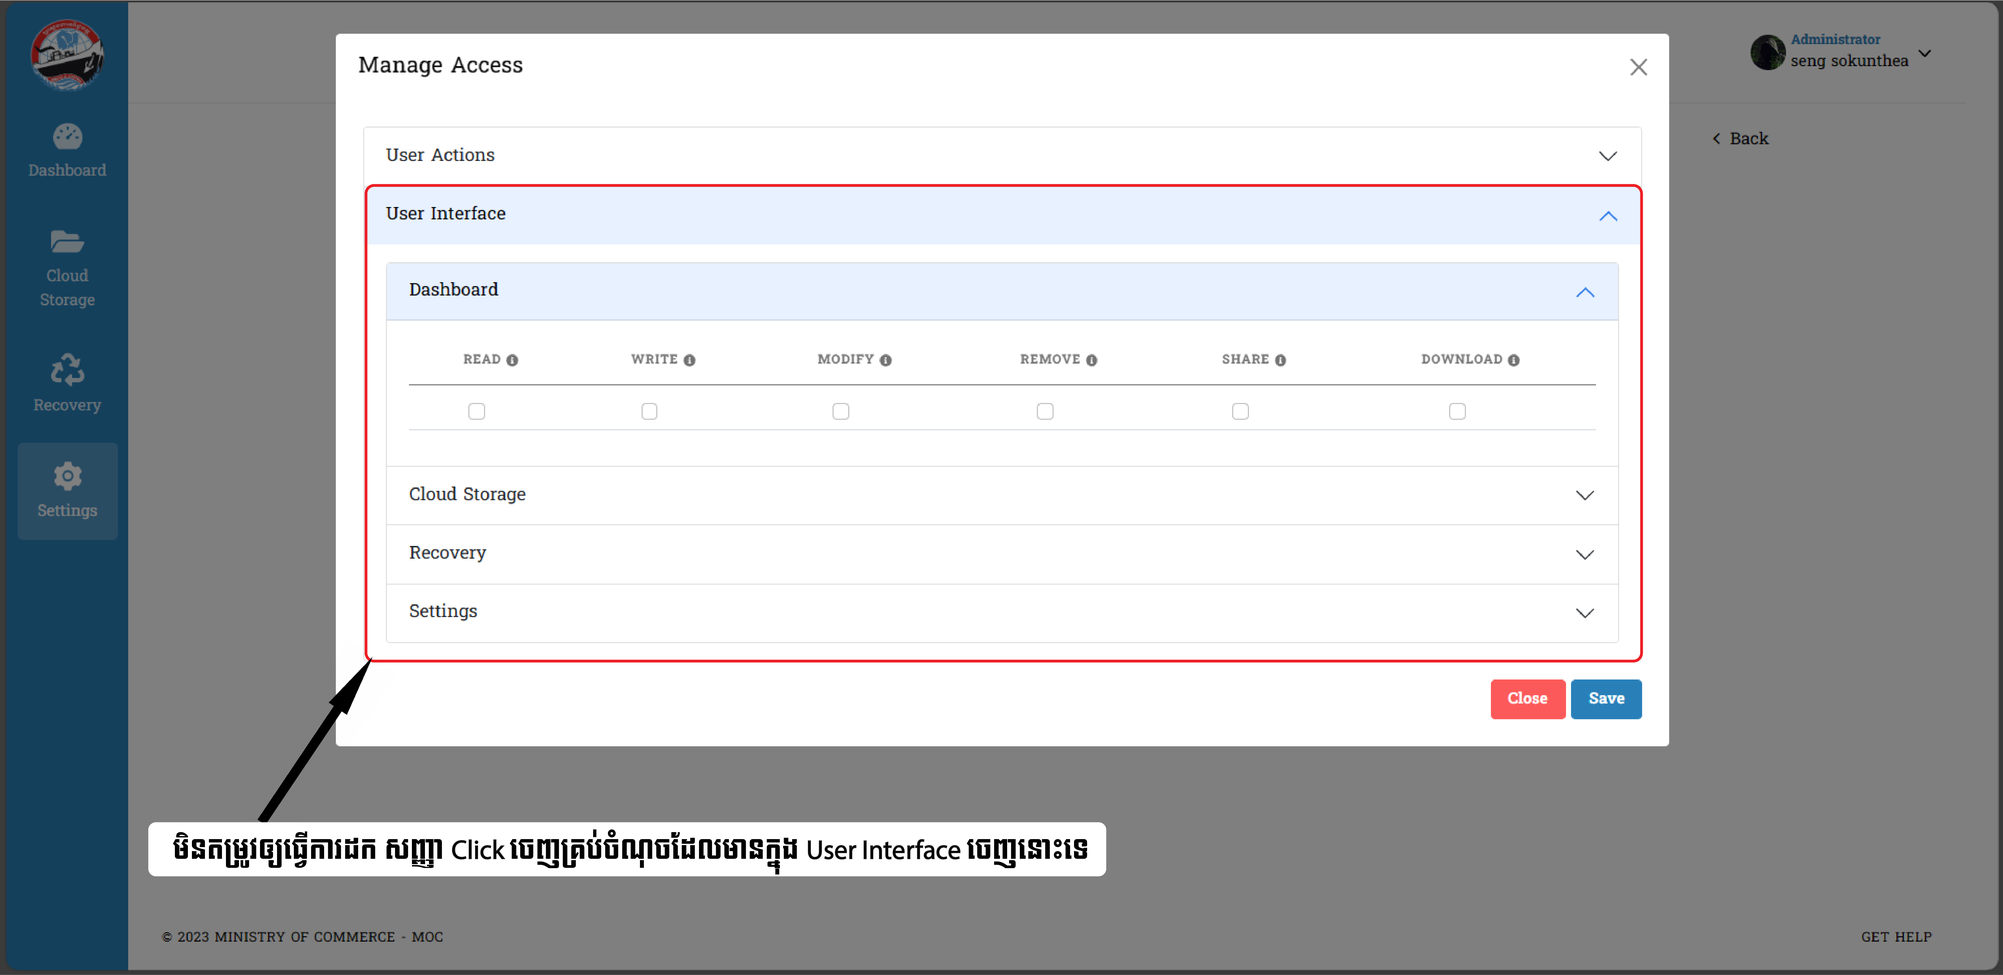
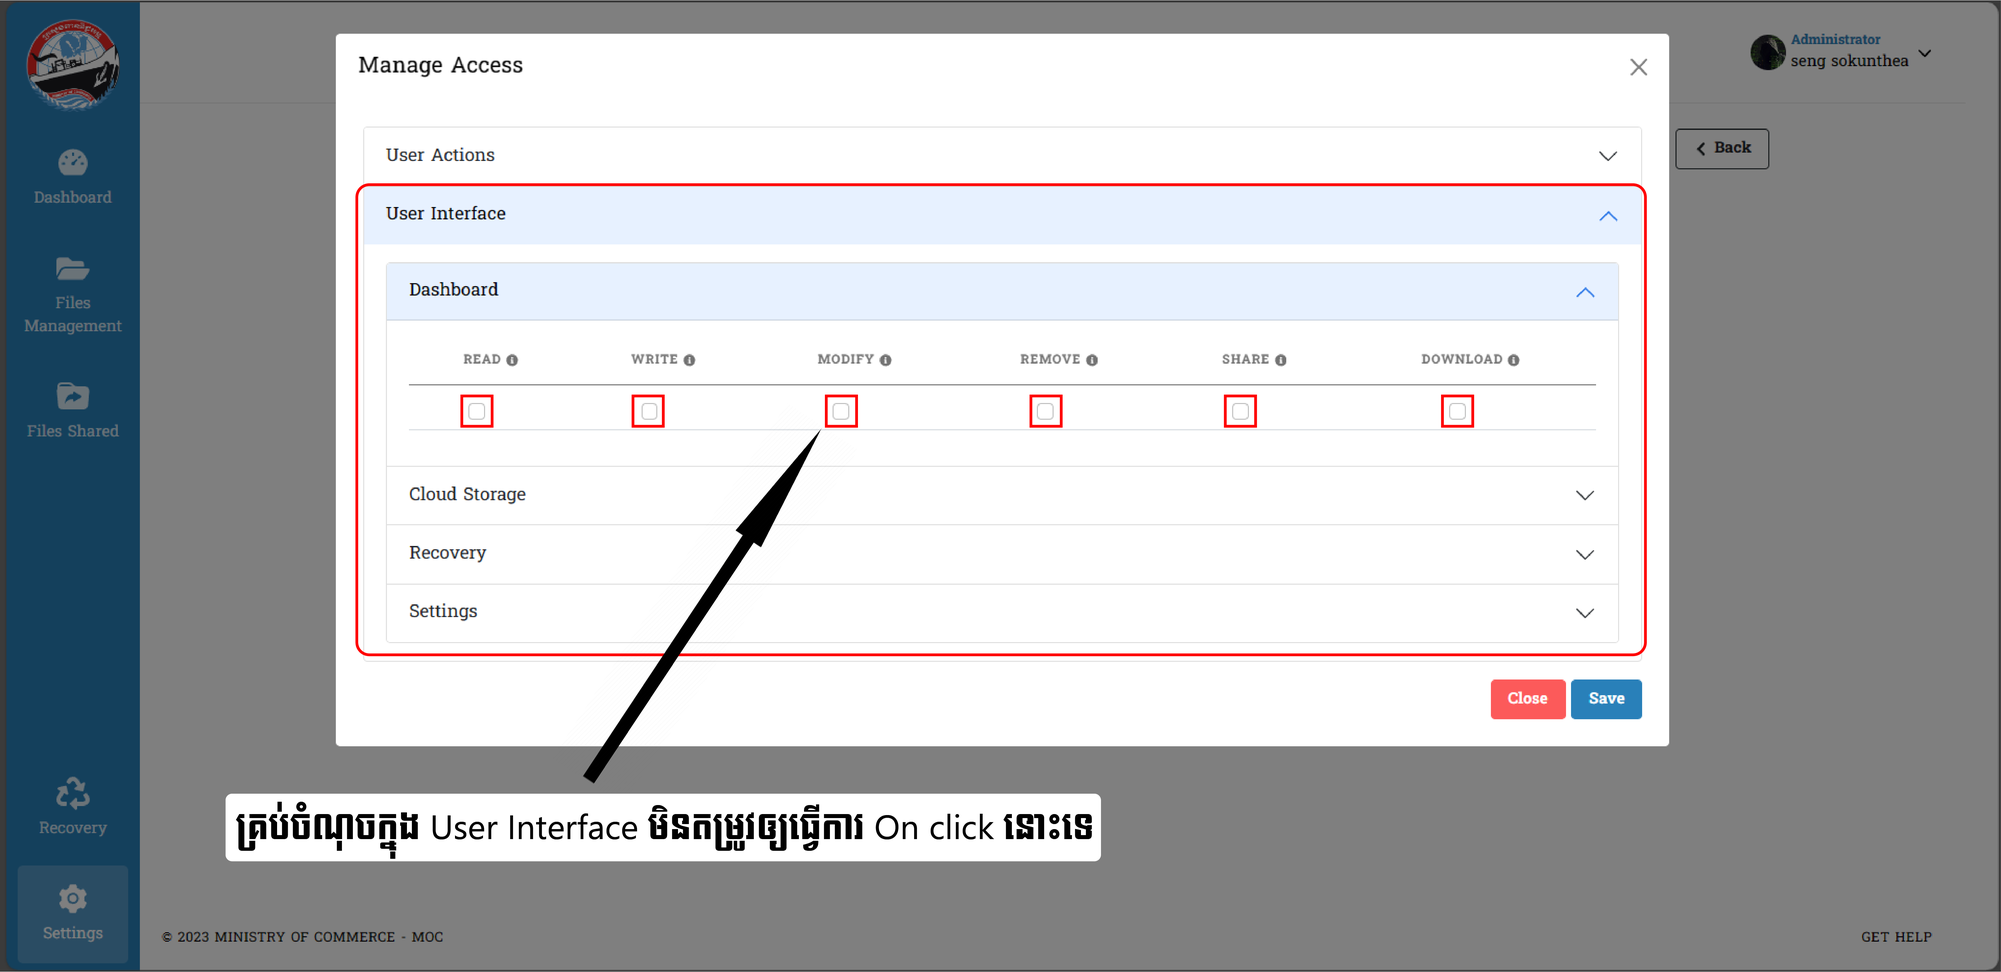
add information in all category today 24 9

diff --git a/src/home/ManageAccess.md b/src/home/ManageAccess.md
@@ -2,35 +2,38 @@
 
 នេះជាគេហទំព័រសម្រាប់ណែនាំដល់ Admin ដែលមានតួនាទីសំខាន់សម្រាប់គ្រប់គ្រងមុខងារដែលស្ថិតក្នុងគេហទំព័រ `Roles`
 ::: danger ចំណាំ
-ដើម្បីដំណើរការដល់ចំណុចនីមួយៗ **Admin** គប្បីធ្វើការ *Assign Role* ដល់ User ក្នុងគេហទំព័រ `Users` លើចំណុច _Action_ ជាមុនសិន
+ដើម្បីដំណើរការដល់ចំណុចនីមួយៗ **Admin** គប្បីធ្វើការ _Assign Role_ ដល់ User ក្នុងគេហទំព័រ `Users` លើចំណុច _Action_ ជាមុនសិន
 
 ![Pic ](./pictures/Roles/ManageAccess/actionInUsers.png)
+
 <hr>
 
 បន្ទាប់ពីចូលក្នុង Action រួច :
 ![Pic ](./pictures/Roles/ManageAccess/assignRole.png)
+
+Admin មានសិទ្ធិក្នុងការកំណត់ឲ្យ User ម្នាក់ណាមានសិទ្ធិជាអ្វីបាន
 :::
+
 ## ១. ការយល់ដឹងអំពីព័ត៌មានក្នុង Manage Access នៃ Roles
 
 ::: tip វិធីសាស្ត្រយល់ច្បាស់ជាមួយនឹងការប្រើប្រាស់ Manage Access
+Manage Access មានពីរចំណុចយ៉ាងសំខាន់សម្រាប់ផ្តល់តួរនាទីផ្សេងៗទៅកាន់ Users នីមួយៗ:
+
 ![Pic ](./pictures/Roles/ManageAccess.png)
 
 ការចូលទៅកាន់ Manage Access ព័ត៌មានទាំងអស់នឹងមានបង្ហាញ :
-ព័ត៌មានចំនួន ២ គឺ
 
 - User Actions
 - User Interface
 <hr>
 
-> _User Actions_ : រាល់ព័ត៌មានទាំងអស់អ្នកប្រើប្រាស់អាចមើលឃើញមុខងាផ្សេងៗ
-> បន្ថែមពីនោះចំណុច `READ *` ជាចំណុចដែលអ្នកប្រើប្រាស់មិនអាចកែប្រែបាន
-> ![Pic ](./pictures/Roles/Interface/ActionsInRoles.png)
-> អ្នកប្រើប្រាស់អាចធ្វើការដក ឬ ដាក់នូវមុខងារទាំងអស់បាន
+> _User Actions_ : Admin តែម្នាក់គត់មានសិទ្ធិកំណត់ព័ត៌មានដល់អ្នកប្រើប្រាស់ មុននឹងអាចធ្វើការលើ Broswer បាន
+> បន្ថែមពីនោះចំណុច `READ *` ជាចំណុចដែល Admin មិនអាចកែប្រែបាន <br/><br/> > ![Pic ](./pictures/Roles/Interface/ActionsInRoles.png)
+> Admin អាចធ្វើការដក ឬ ដាក់នូវមុខងារទាំងអស់បាន
 
 <hr>
 
-> _User Interface_ : អ្នកប្រើប្រាស់អាចធ្វើការកំណត់ព័ត៌មានលើចំណុចនីមួយៗ
-> ![Pic ](./pictures/Roles/Interface/InterfaceInRole.png)
+> _User Interface_ : សម្រាប់បង្ហាញព័ត៌មានសំខាន់ដល់ Users ប្រើប្រាស់ ។ សម្រាប់ Admin គឺមានតួនាទីមួយនេះ <br/><br/> > ![Pic ](./pictures/Roles/Interface/InterfaceInRole.png)
 
 - ចុច _Save_ ដើម្បីធ្វើការបញ្ជាក់ថាការចង់រក្សាទុក
 - ចុច _Cancel_ សម្រាប់ទៅរកទម្រង់ដើម
@@ -53,71 +56,125 @@
 :::
 
 ## ៣. ការបើកអនុញ្ញាតសកម្មភាពទាំងអស់ក្នុង User Interface
+
 ::: tip វិធីសាស្ត្រយល់ដឹងអំពីការបើកគ្រប់ចំណុចទាំងអស់ក្នុងគេហទំព័រ User Interface
+
 - ចូលទៅកាន់ _User Interface_ ក្នុងចំណុច `Dashbord`
 - ផ្តល់ព័ត៌មានគ្រប់ចំណុចដែលមិនទាន់បានបំពេញរួច
 
 ព័ត៌មានសម្រាប់ Admin ត្រូវធ្វើ :
 ![Pic ](./pictures/Roles/ManageAccess/UserInterface.png)
+
 <hr>
 
- ![Pic ](./pictures/Roles/ManageAccess/UserInterfaceWithAllClick.png)
+![Pic ](./pictures/Roles/ManageAccess/UserInterfaceWithAllClick.png)
 `Admin` បានផ្តល់តួនាទីឲ្យ **User** ចូលក្នុងប្រព័ន្ធបានត្រឹមតែចូលមើលតែប៉ុណ្ណោះ!
+
 <hr>
 
-ព័ត៌មានសម្រាប់ User ត្រូវដឹង :  <br>
+ព័ត៌មានសម្រាប់ User ត្រូវដឹង : <br>
 Coming soon ....
-::: 
-## ៤.ការអនុញ្ញាតទាំងអស់នៅក្នុង User Permissions  និង User Interface គ្រប់ចំណុច
+:::
+
+## ៤.ការអនុញ្ញាតទាំងអស់នៅក្នុង User Permissions និង User Interface គ្រប់ចំណុច
+
 ::: tip វិធីសាស្ត្រយល់ដឹងអំពីការបើកដំណើរការនូវសកម្មភាពផ្សេងៗក្នុងចំណុចទាំងពីរធំៗ
-- ចូលទៅកាន់ Manage Access ដដែលបន្ទាប់មកចូលទៅចុចអនុញ្ញាតទាំងពីរចំណុចធំៗរួមមាន `User Permissions` និង `User Interface` 
-- ក្នុង `User Interface` ចុចអនុញ្ញាតទាំង *Dashboard* , *Cloud Storage* , *Recovery* , *Settings* ផងដែរ ។
+
+- ចូលទៅកាន់ Manage Access ដដែលបន្ទាប់មកចូលទៅចុចអនុញ្ញាតទាំងពីរចំណុចធំៗរួមមាន `User Permissions` និង `User Interface`
+- ក្នុង `User Interface` ចុចអនុញ្ញាតទាំង _Dashboard_ , _Cloud Storage_ , _Recovery_ , _Settings_ ផងដែរ ។
 
 ព័ត៌មានសម្រាប់ Admin ត្រូវធ្វើ :
 ![Pic ](./pictures/Roles/ManageAccess/clickallinManageAccess.png)
->ការបើកចំណុចទាំងពីរខាងលើគឺអនុញ្ញាតឲ្យ User (អ្នកប្រើប្រាស់) មានសិទ្ធិក្នុងការកែប្រែ (Edit, Modify and Remove) គ្រប់ចំណុចលើ Website បាន
+
+> ការបើកចំណុចទាំងពីរខាងលើគឺអនុញ្ញាតឲ្យ User (អ្នកប្រើប្រាស់) មានសិទ្ធិក្នុងការកែប្រែ (Edit, Modify and Remove) គ្រប់ចំណុចលើ Website បាន
 
 ក្នុង **Dashboard** អ្នកប្រើប្រាស់អាច :
+
 - អាចចូលមើលនឹងកែប្រែគ្រប់ចំណុចដែលមាន
 - គ្រប់ព័ត៌មានរបស់ User (អ្នកប្រើប្រាស់) អាចដឹងបាន
 
 ![Pic ](./pictures/Roles/ManageAccess/dashboradNews.png)
 
 នៅក្នុង **Cloud Storage** អ្នកប្រើប្រាស់អាច :
-- បង្កើត Batch Upload 
-- បង្កើត File 
+
+- បង្កើត Batch Upload
+- បង្កើត File
 - បង្កើត Folder
 
 ![Pic ](./pictures/Roles/ManageAccess/AddFile.png)
+
 <hr>
 
-ក្នុង **Recovery** អ្នកប្រើប្រាស់អាច : 
+ក្នុង **Recovery** អ្នកប្រើប្រាស់អាច :
+
 - ធ្វើការ «Recovery» (ការយកមកប្រើប្រាស់ជាថ្មី) និង «Delete» ចំពោះ Folder ជាមួយនឹង ទិន្នន័យផ្សេងៗដែលអ្នកប្រើប្រាស់យល់ថាមានបញ្ហា ឬុ ចង់លុបចេញ
 
 ![Pic ](./pictures/Roles/ManageAccess/Recovery.png)
+
 <hr>
 
-ក្នុង **Settings** អ្នកប្រើប្រាស់អាចធ្វើការជាធម្មតា !! 
+ក្នុង **Settings** អ្នកប្រើប្រាស់អាចធ្វើការជាធម្មតា !!
 :::
+
 ## ៥. ការអនុញ្ញាតត្រឹមតែការចូលមើល តែមិនអាចធ្វើការកំណត់បាន
+
 ::: tip វិធីសាស្ត្រយល់ដឹងអំពីការកំណត់មិនឲ្យធ្វើអ្វីបានក្រៅពីការអាន
 ព័ត៌មានសម្រាប់ Admin ត្រូវធ្វើ :
 
->បើ Admin មានគំនិតចង់ឲ្យ User ធ្វើការងារត្រឹមតែ អាន មួយលក្ខខណ្ឌនោះ នេះជាកាតាបកិច្ចដែលត្រូវបំពេញតាម : 
+> បើ Admin មានគំនិតចង់ឲ្យ User ធ្វើការងារត្រឹមតែ អាន មួយលក្ខខណ្ឌនោះ នេះជាកាតាបកិច្ចដែលត្រូវបំពេញតាម :
 
 - ចំពោះ `User Permission` មិនតម្រូវឲ្យបិទនោះទេ ❌
-- តម្រូវឲ្យបិទសញ្ញា Click ✅ ក្នុង User Interface គ្រប់ចំណុច
+- តម្រូវឲ្យបិទសញ្ញា Click ✅ ក្នុង `User Interface` គ្រប់ចំណុច
 - អ្នកប្រើប្រាស់ ពុំអាចធ្វើការបានទេក្រោយ Admin បានកំណត់រួចរាល់
 
-![Pic ](./pictures/Roles/ManageAccess/clickAllUserPermission(2).png)
+![Pic ](<./pictures/Roles/ManageAccess/clickAllUserPermission(2).png>)
+
 <hr>
 
 ![Pic ](./pictures/Roles/ManageAccess/clickAllUserPermission.png)
 
 ព័ត៌មានសម្រាប់ User (អ្នកប្រើប្រាស់) ត្រូវដឹង :
-- អ្នកប្រើប្រាស់ពុំអាចធ្វើការមើលឃើញ ការបង្ហាញព័ត៌មាននៅផ្នែកខាងឆ្វេង (Sidebar) បានទេ
-- អ្នកប្រើប្រាស់មើលបានតែព័ត៌មាន *Settings* មួយតែប៉ុណ្ណោះ <br> ក្នុងនោះទទួលបានតែ *( Account* និង *change Password)* តែប៉ុណ្ណោះ ។ 
+
+- ពុំអាចមើលឃើញ ការបង្ហាញព័ត៌មាននៅផ្នែកខាងឆ្វេងមួយចំនួន (Sidebar)
+- មើលបានតែព័ត៌មាន _Settings_ មួយតែប៉ុណ្ណោះ <br> ក្នុងនោះទទួលបាន _( Account_ និង _change Password)_
 - អាចធ្វើការបានត្រឹមតែ `Change Password (ប្តូរពាក្យសម្ងាត់)` និង `Account(បង្កើតព័ត៌មានផ្ទាល់ខ្លួន)` តែប៉ុណ្ណោះ ។
 - ការផ្លាស់ប្តូរពាក្យសម្ងាត់រួចនឹងលោតទៅកាន់គេហទំព័រដើមវិញ
 
 ![Pic ](./pictures/Roles/ManageAccess/OnlyViewSettings.png)
+
+:::
+
+## ៦. ការផ្តល់ឲ្យមានការអានគ្រប់ព័ត៌មានតែមិនអាចផ្លាស់ប្តូរចំណុចណាបាន
+
+::: tip វិធីសាស្ត្រយល់ដឹងអំពីការបង្ហាញចេញក្រោយពេលមានការកែប្រែនិងធ្វើតាមការណែនាំតាមដំណាក់កាលនីមួយៗ
+ព័ត៌មានសម្រាប់ Admin ត្រូវធ្វើ :
+
+:::
+
+## ៧. ការបិទបញ្ចប់តួនាទីទៅជាទម្រង់លំនាំដើមវិញ
+
+::: tip វិធីសាស្ត្រយល់ដឹងអំពីដំណើរដើម្បីផ្តល់តួនាទីឲ្យក្លាយជាទម្រង់ដើមជាថ្មី ក្នុងបំណងធ្វើការផ្អាកដំណើរការនិងតួនាទីណាមួយរបស់ users
+
+ព័ត៌មានសម្រាប់ Admin ត្រូវធ្វើ : <br/>
+Admin បានមកដល់ក្នុង Manage Access :
+
+- ធ្វើការ click ✅ ក្នុងប្រអប់ទាំង ៤ នេះ
+- មិនតម្រូវឲ្យធ្វើការ សញ្ញា Click ក្នុង `User Interface` គ្រប់ចំណុច ❌
+- ចុច _Save_ ដើម្បីសម្រេចថាអ្នកបានយល់ព្រមក្នុងការកំណត់ធ្វើបែបនោះ
+
+![Pic ](./pictures/Roles/ManageAccess/click4onManageAccessInUserAction.png)
+
+<hr/>
+
+![Pic ](./pictures/Roles/ManageAccess/click4onManageAccessInUserAction2.png)
+
+ព័ត៌មានសម្រាប់ User (អ្នកប្រើប្រាស់) ត្រូវដឹង :
+
+- ខាងលើផ្នែកខាងស្តាំបានផ្លាស់ប្តូរឈ្មោះអ្នកប្រើប្រាស់ដែលបានកំណត់ទៅជា _Default_
+- ការប្រើប្រាស់បានក្លាយទៅជាទម្រង់នៃរូបភាពដើមវិញទាំងស្រុង
+- ធ្វើការបានតែលើ Info (ព័ត៌មាន) _Account_ &nbsp;និង _Change Password_ តែប៉ុណ្ណោះ
+
+![Pic ](./pictures/Roles/ManageAccess/click4onManageAccessInUserActionForUsersKnow.png)
+:::
+
+## ៨. ការអនុញ្ញាតត្រឹមការអាន និង ការសរសេរដល់អ្នកប្រើប្រាស់

diff --git a/src/home/InformationInPasswordAndUsername.md b/src/home/InformationInPasswordAndUsername.md
@@ -6,6 +6,8 @@
 ## ១. ការមិនផ្តល់ Username និង Password
 ::: tip ករណីអ្នកប្រើប្រាស់មិនបានផ្តល់ឈ្មោះអ្នកប្រើប្រាស់ និងពាក្យសម្ងាត់
  > បើវាយដោយគ្មាន **(ឈ្មោះ) / Username** ហើយគ្មាន **(ពាក្យសម្ងាត់) / Password** ក្រោយចុច `Log in` នឹងមានពាក្យថា `Password and Username must be input!` ខាងក្រោមពាក្យ *Login Failure*
+
+🗣 : សូមធ្វើការបំពេញព័ត៌មានសារជាថ្មី ឲ្យបានត្រឹមត្រូវ
   
 ![Pic ](./pictures/without-usernameandpassword.png)
 :::
@@ -26,6 +28,8 @@
 
  > បើវាយគ្មាន **(ឈ្មោះ) / Username** ដោយតែមាន **(ពាក្យសម្ងាត់) / Password** ក្រោយចុច `Log in` នឹងមានពាក្យថា `Username must be input!` ខាងក្រោមពាក្យ *Login Failure*
 
+🗣 : សូមធ្វើការបំពេញព័ត៌មានសារជាថ្មី ឲ្យបានត្រឹមត្រូវ
+
 ![Pic ](./pictures/usernamemustbeinput.png)
 :::
 <hr>
@@ -43,7 +47,9 @@
 ## ៥. ការដាក់ឈ្មោះ Email ផ្សេងខុសពី MOC Domain
 
 ::: tip ករណីអ្នកប្រើប្រាស់ដាក់ឈ្មោះ (Website, {ឧទាហរណ៍ : ...@gmail.com} ) បន្ថែមក្នុងកំឡុងពេលដំណើរការបញ្ចូល
- >សម្រាប់លោកអ្នកធ្វើការបញ្ចូលឈ្មោះដោយភ្ជាប់ជាមួយនឹង Domain (ឈ្មោះ Website ) ផ្សេង ក្រោយចុច `Log in` នឹងមានពាក្យថា **Username must be input!** ខាងក្រោមពាក្យ *Login Failure*
+ >សម្រាប់លោកអ្នកធ្វើការបញ្ចូលឈ្មោះដោយភ្ជាប់ជាមួយនឹង Domain (ឈ្មោះ Website ) ផ្សេង ក្រោយចុច `Log in` នឹងមានពាក្យថា **Username must be input!** ខាងក្រោមពាក្យ *Login Failure* 
+
+ 🗣 : សូមធ្វើការបំពេញព័ត៌មានសារជាថ្មី ឲ្យបានត្រឹមត្រូវ
 
  ![Pic ](./pictures/Create-a-login-system-that-accepts-usernames-from-alternative-domains-during-the-input-process.png)
 :::
@@ -51,8 +57,11 @@
 
 ## ៦. ការបញ្ចូល Password ដូច Username
 
-::: tip ករណីពាក្យសម្ងាត់របស់អ្នកប្រើប្រាស់មិនតម្រូវឱ្យផ្តល់ឈ្មោះមកនោះឡើយ
+::: tip ចំពោះការដាក់ពាក្យសម្ងាត់និងឈ្មោះដូចគ្នា នេះជាដំណើរការនីមួយៗក្នុងការស្វែងយល់
+ព័ត៌មានសម្រាប់អ្នកប្រើប្រាស់ (User) : 
  >សម្រាប់ការបញ្ចូលពាក្យសម្ងាត់មិនមានភាពច្បាស់លាស់ទៅតាមអ្វីដែលមាននោះ ក្រោយពីធ្វ់ើការចុច `Log in` នឹងមានពាក្យថា **Incorrect password!** នៅខាងក្រោមពាក្យ *Login Failure*
+
+ 🗣 : សូមធ្វើការបំពេញព័ត៌មានសារជាថ្មី ឲ្យបានត្រឹមត្រូវ
 
  ![Pic ](./pictures/users-input-an-incorrect-password-during-the-login-process.png  )
 :::

diff --git a/src/home/ForgotPassword.md b/src/home/ForgotPassword.md
@@ -13,6 +13,8 @@
 
  >សម្រាប់ការបញ្ចូលពាក្យសម្ងាត់មិនមានភាពច្បាស់លាស់ទៅតាមអ្វីដែលមាននោះ ក្រោយពីធ្វ់ើការចុច `Log in` នឹងមានពាក្យថា **Email must be input** នៅខាងក្រោមពាក្យ *Get OTP Failure*
 
+🗣 : សូមធ្វើការបំពេញព័ត៌មានសារជាថ្មី ឲ្យបានត្រឹមត្រូវ
+
  ![Pic ](./pictures/forgot-password2.png )
 :::
 <hr>
@@ -26,6 +28,8 @@
 អ្នកប្រើប្រាស់បានដាក់ឈ្មោះដោយភ្ជាប់ជាមួយនឹង **Email** តែបើខុសឈ្មោះនៃរបស់វានោះបញ្ហានឹងបង្ហាញបែបនេះ : 
 
  >នៅពេលអ្នកប្រើប្រាស់ដាក់ឈ្មោះ Email ដែលមិនមាន ឬ ក៏មិនត្រឹមត្រូវទេ ពិតណាស់វានឹងមានបញ្ហា ក្រោយពេលអ្នកប្រើប្រាស់ធ្វើការចុច `Log in` ដោយវានឹងមានចេញពាក្យ **Email does not exist or invalid email!** នៅពីក្រោមពាក្យថា *Get OTP Failure* ដើម្បីបញ្ជាក់ថានេះមានកំហុសហើយ
+
+🗣 : សូមធ្វើការបំពេញព័ត៌មានសារជាថ្មី ឲ្យបានត្រឹមត្រូវ
 
 ![pic ](./pictures/EmailMustUsemoc.gov.khAsDomain.png)
 :::
